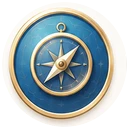
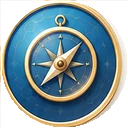
Replace achievements with centered circular artwork

diff --git a/docs/index.html b/docs/index.html
@@ -20,8 +20,10 @@
 @media(max-width:520px){.hero-name{grid-template-columns:max-content 92px;gap:9px}.hero-name h1{max-width:220px}.current-medal img{width:88px;height:88px}.achievement-hero:before{background:radial-gradient(ellipse at 43% 17%,var(--achievement-glow),transparent 66%)}}
 .current-medal span{margin-top:-1px;padding:3px 8px;border:1px solid color-mix(in srgb,var(--achievement-accent) 36%,#fff);border-radius:999px;background:#fffdf3cc;color:#725721;font-size:10px;line-height:1;box-shadow:0 2px 7px #13213912}.medal-slot.earned{overflow:visible}.medal-slot.earned img{border-radius:50%}.medal-slot.earned small{z-index:2;display:grid;place-items:center;height:16px;bottom:-5px}.achievement-hero:before{inset:-46px -20px auto;height:360px;background:radial-gradient(ellipse at 37% 20%,var(--achievement-glow),transparent 63%)}
 @media(max-width:520px){.shell:not(.admin)[data-view="home"]>.welcome{flex:0 0 auto;height:auto;max-height:calc(100dvh - 112px);overflow:hidden;padding-bottom:18px}.hero-name{grid-template-columns:max-content 96px;gap:7px}.hero-name h1{max-width:224px}.current-medal img{width:92px;height:92px}.medal-collection{margin-top:8px;margin-bottom:10px}.achievement-progress{margin-bottom:7px}.stats{margin-top:8px;margin-bottom:9px}.menu{margin-top:8px}.achievement-hero:before{inset:-42px -18px auto;height:350px;background:radial-gradient(ellipse at 38% 18%,var(--achievement-glow),transparent 65%)}}
+.medal-slot.earned{border:0;background:transparent;box-shadow:none}.medal-slot.earned img{width:100%;height:100%;filter:drop-shadow(0 4px 5px #18273b28)}.hero-name{grid-template-columns:max-content 90px;gap:4px;align-items:center}.current-medal{width:90px;align-self:center}.current-medal img{width:86px;height:86px;filter:drop-shadow(0 5px 7px #18273b2d)}.current-medal span{margin-top:-1px;font-size:9px;padding:3px 7px}.achievement-hero:before{background:radial-gradient(ellipse at 34% 17%,var(--achievement-glow),transparent 61%)}
+@media(max-width:520px){.hero-name{grid-template-columns:max-content 86px;gap:2px}.hero-name h1{max-width:230px}.current-medal{width:86px}.current-medal img{width:82px;height:82px}.current-medal span{font-size:8px;padding:3px 6px}.medal-slot.earned small{bottom:-3px}.achievement-hero:before{background:radial-gradient(ellipse at 34% 16%,var(--achievement-glow),transparent 62%)}}
 </style></head><body><main id="app" class="shell"><div class="loading">Загружаю занятие…</div></main>
-<script src="./streak.js?v=7"></script><script>
+<script src="./streak.js?v=8"></script><script>
 const params=new URLSearchParams(location.search),queryToken=params.get('token')||'',queryTeacher=params.get('teacher')||'';if(queryToken)localStorage.setItem('wordsToken',queryToken);if(queryTeacher)localStorage.setItem('wordsTeacher',queryTeacher);const TOKEN=queryToken||localStorage.getItem('wordsToken')||'';let TEACHER=queryTeacher||(!TOKEN?localStorage.getItem('wordsTeacher')||'':'');const API_URL='https://script.google.com/macros/s/AKfycbzXGwwZqhBFhVkdWnY84sz4YAc-iTSqShHS9PDfTaNq6uDQF-geMDTpUk4zptzNLnHarQ/exec',APP_URL=location.origin+location.pathname,app=document.getElementById('app');let lesson,index=0,ratings=[],quizIndex=0,quizScore=0,quizAnswers=[],retry=[],retryIndex=0,tableTabs={words:[],verbs:[]},autoSound=localStorage.getItem('wordsAutoSound')!=='0',speechRate=Number(localStorage.getItem('wordsSpeechRate')||.82),preferredVoice=localStorage.getItem('wordsVoice')||'',repeatSound=localStorage.getItem('wordsRepeatSound')==='1',remindersEnabled=localStorage.getItem('wordsReminders')==='1',homeData=null,lastSaved=true,lastMistakes=[],lastSummary=null,practiceAfterLesson=false,progressRun=null,progressType=sessionStorage.getItem('wordsProgressType')||'';
 const LOCAL_TIME_ZONE=Intl.DateTimeFormat().resolvedOptions().timeZone||'Europe/Moscow';
 const reminderPhrases=['Семь слов сегодня — заметный шаг к свободной речи.','Пять минут практики лучше, чем идеальный план на потом.','Твои слова ждут короткого повторения.','Каждое повторение делает речь увереннее.','Открой Words — один маленький урок уже считается победой.','Память любит регулярность. Самое время повторить слова.','Семь карточек — и дневная цель станет ближе.','Не обязательно долго: достаточно одного занятия.','Сегодняшнее повторение экономит время завтра.','Слова становятся твоими, когда ты к ним возвращаешься.','Небольшая тренировка сегодня — уверенный разговор потом.','Есть слова для повторения. Поможем им закрепиться?','Один урок занимает несколько минут, а результат остаётся надолго.','Продолжай серию занятий — начни с семи карточек.','Самое сложное — открыть приложение. Дальше будет легко.','Проверь себя: возможно, сегодня ты знаешь больше, чем вчера.','Повтори знакомое и добавь несколько новых слов.','Язык растёт по одному слову. Добавим сегодняшние семь?','Короткая практика прямо сейчас поддержит твой прогресс.','Вернись к словам на несколько минут — они уже почти закрепились.'];
@@ -93,5 +95,5 @@ function leaveTeacher(){TEACHER='';localStorage.removeItem('wordsTeacher');app.c
 async function teacherLogin(){let key=localStorage.getItem('wordsTeacher')||'';if(!key)key=prompt('Введите код преподавателя:')||'';if(!key)return;showLoading('Открываю кабинет преподавателя…');try{const d=await call('bootstrap','',key);if(d.role!=='teacher')throw new Error('Неверный код.');TEACHER=key;localStorage.setItem('wordsTeacher',key);tableTabs=d.tabs||{words:[],verbs:[]};renderTeacher(d.dashboard)}catch(e){localStorage.removeItem('wordsTeacher');alert(e.message);location.reload()}}
 function studentRow(s){const difficult=s.difficult||[],items=s.history||[],words=s.words||{learned:0,studied:s.studied||0},verbs=s.verbs||{learned:0,studied:0},hard=difficult.length?difficult.map(x=>`${esc(x.word)} (${x.wrong})`).join(', '):'ошибок пока нет',history=items.length?items.map(x=>`<div class="history">${fmtDate(x.date)} · ${x.category==='verb'?'глаголы':'слова'} · ${x.score}/${x.total}</div>`).join(''):'<div class="history">Занятий пока нет</div>',editData=encodeURIComponent(JSON.stringify({token:s.token,name:s.name,wordsTab:s.wordsTab,verbsTab:s.verbsTab,language:s.language}));return `<div class="student"><div class="student-head"><div><b>${esc(s.name)}</b><div class="meta">Последний вход: ${fmtDate(s.lastSeen)} · последний тест ${s.lastScore||'—'}</div><div class="meta">Вкладки: ${esc(s.wordsTab)} / ${esc(s.verbsTab||'—')}</div></div><div><button class="btn secondary" onclick='copyLink(${JSON.stringify(s.token)})'>Ссылка</button> <button class="btn secondary" onclick="editStudent('${editData}')">Редактировать</button> <button class="btn ghost" onclick='resetStudent(${JSON.stringify(s.token)},${JSON.stringify(s.name)})'>Сбросить прогресс</button> <button class="btn ${s.active?'danger':'primary'}" onclick='toggleStudent(${JSON.stringify(s.token)},${!s.active})'>${s.active?'Отключить':'Включить'}</button> <button class="btn danger" onclick='removeStudent(${JSON.stringify(s.token)},${JSON.stringify(s.name)})'>Удалить</button></div></div><div class="student-grid"><div class="mini"><b>${s.today||0}</b><br>занятий сегодня</div><div class="mini"><b>${s.week||0}</b><br>за 7 дней</div><div class="mini"><b>${words.learned||0}/${words.studied||0}</b><br>слова</div><div class="mini"><b>${verbs.learned||0}/${verbs.studied||0}</b><br>глаголы</div></div><details class="details"><summary>Ошибки и история</summary><p><b>Сложные:</b> ${hard}</p>${history}</details></div>`}
 async function addStudent(){try{const r=await call('createStudent',TEACHER,{name:newName.value,wordsTab:newWords.value,verbsTab:newVerbs.value,language:newLanguage.value});renderTeacher(r.dashboard);await copyText(studentLink(r.token));alert('Ученик создан. Ссылка скопирована.')}catch(e){alert(e.message)}}async function editStudent(encoded){const s=JSON.parse(decodeURIComponent(encoded)),name=prompt('Имя ученика:',s.name);if(name===null)return;const wordsTab=prompt('Вкладка слов:',s.wordsTab);if(wordsTab===null)return;const verbsTab=prompt('Вкладка глаголов (можно оставить пустой):',s.verbsTab||'');if(verbsTab===null)return;const language=confirm('Нажмите OK для испанского, «Отмена» для английского.')?'es':'en';try{renderTeacher(await call('updateStudent',TEACHER,s.token,{name,wordsTab,verbsTab,language}))}catch(e){alert(e.message)}}async function toggleStudent(t,a){try{renderTeacher(await call('setStudentActive',TEACHER,t,a))}catch(e){alert(e.message)}}async function resetStudent(t,name){if(!confirm('Удалить весь прогресс и историю ученика «'+name+'»?'))return;try{const dashboard=await call('resetStudentProgress',TEACHER,t);localStorage.removeItem('wordsHome:'+t);renderTeacher(dashboard);alert('Прогресс ученика сброшен: счётчики обнулены.')}catch(e){alert(e.message)}}async function removeStudent(t,name){if(!confirm('Удалить ученика «'+name+'» вместе со всем прогрессом и историей? Вкладки со словами останутся.'))return;try{const dashboard=await call('deleteStudent',TEACHER,t);localStorage.removeItem('wordsHome:'+t);renderTeacher(dashboard);alert('Ученик «'+name+'» удалён.')}catch(e){alert(e.message)}}async function copyText(t){try{await navigator.clipboard.writeText(t)}catch(e){prompt('Скопируйте ссылку:',t)}}async function copyLink(t){await copyText(studentLink(t));alert('Персональная ссылка готова.')}
-if('serviceWorker' in navigator){window.addEventListener('load',()=>navigator.serviceWorker.register('./sw.js?v=39',{updateViaCache:'none'}).then(registration=>registration.update()).catch(()=>{}))}init();
+if('serviceWorker' in navigator){window.addEventListener('load',()=>navigator.serviceWorker.register('./sw.js?v=40',{updateViaCache:'none'}).then(registration=>registration.update()).catch(()=>{}))}init();
 </script></body></html>

diff --git a/docs/streak.js b/docs/streak.js
@@ -12,7 +12,7 @@ const STREAK_STATUSES=[
  {days:365,id:'legend',asset:'legend.webp',name:'Легенда',description:'Целый год ежедневной практики.',color:'#e5a325'}
 ];
 const MOTIVATION_PHRASES=['Каждое занятие делает знакомые слова увереннее.','Семь карточек сегодня — меньше сомнений завтра.','Небольшой шаг каждый день сильнее редких рывков.','Ошибки показывают, что повторить, а не что вы не умеете.','Регулярность постепенно превращается в лёгкость.','Сегодняшнее повторение укрепляет память.','Ещё одно занятие — ещё семь встреч со словами.','Вы уже знаете больше, чем в начале пути.','Короткая практика тоже считается важным шагом.','Возвращаться к словам — нормальная часть обучения.','Спокойный темп помогает знаниям закрепиться.','Каждый правильный ответ вырос из предыдущих попыток.','Серия строится по одному занятию за раз.','Слова становятся своими, когда встречаются регулярно.','Лучший результат — тот, к которому вы возвращаетесь.','Пять минут практики лучше отложенного идеального часа.','Сегодня вы поддержали привычку учиться.','Повторение освобождает внимание для новых слов.','Уверенность растёт незаметно, но каждый день.','Продолжайте: память любит регулярные встречи.'];
-function medalSrc(x){return'./achievements/'+x.asset+'?v=3'}
+function medalSrc(x){return'./achievements/'+x.asset+'?v=4'}
 function getStreakStatus(days){days=Math.max(0,Number(days)||0);let current=null,next=STREAK_STATUSES[0];STREAK_STATUSES.forEach(x=>{if(days>=x.days){current=x;next=STREAK_STATUSES[STREAK_STATUSES.indexOf(x)+1]||null}});const start=current?current.days:0,end=next?next.days:start||1,progress=next?Math.max(0,Math.min(1,(days-start)/(end-start))):1;return{days,current,next,remaining:next?Math.max(0,next.days-days):0,progress,max:!next}}
 function achievementHeader(d){
  const streak=getStreakStatus(d.streak),best=getStreakStatus(d.longestStreak),current=best.current||STREAK_STATUSES[0],bestDays=Math.max(0,Number(d.longestStreak||0)),lessons=Number(d.totalLessons||0),phrase=MOTIVATION_PHRASES[lessons%MOTIVATION_PHRASES.length],percent=Math.round(streak.progress*100),footer=streak.next?`До достижения «${streak.next.name}» — ${streak.remaining} ${dayWord(streak.remaining)}`:'Все достижения серии открыты';

diff --git a/docs/sw.js b/docs/sw.js
@@ -1,4 +1,4 @@
-const CACHE='words-shell-v39';
+const CACHE='words-shell-v40';
 const SHELL=['./','./index.html','./streak.js','./manifest.webmanifest','./icon-words-v3-180.png','./icon-words-v3-512.png','./achievements/first.webp','./achievements/student.webp','./achievements/rhythm.webp','./achievements/practice.webp','./achievements/habit.webp','./achievements/speaker.webp','./achievements/explorer.webp','./achievements/linguist.webp','./achievements/master.webp','./achievements/expert.webp','./achievements/legend.webp'];
 self.addEventListener('install',event=>event.waitUntil(caches.open(CACHE).then(cache=>cache.addAll(SHELL)).then(()=>self.skipWaiting())));
 self.addEventListener('activate',event=>event.waitUntil(caches.keys().then(keys=>Promise.all(keys.filter(key=>key!==CACHE).map(key=>caches.delete(key)))).then(()=>self.clients.claim())));
